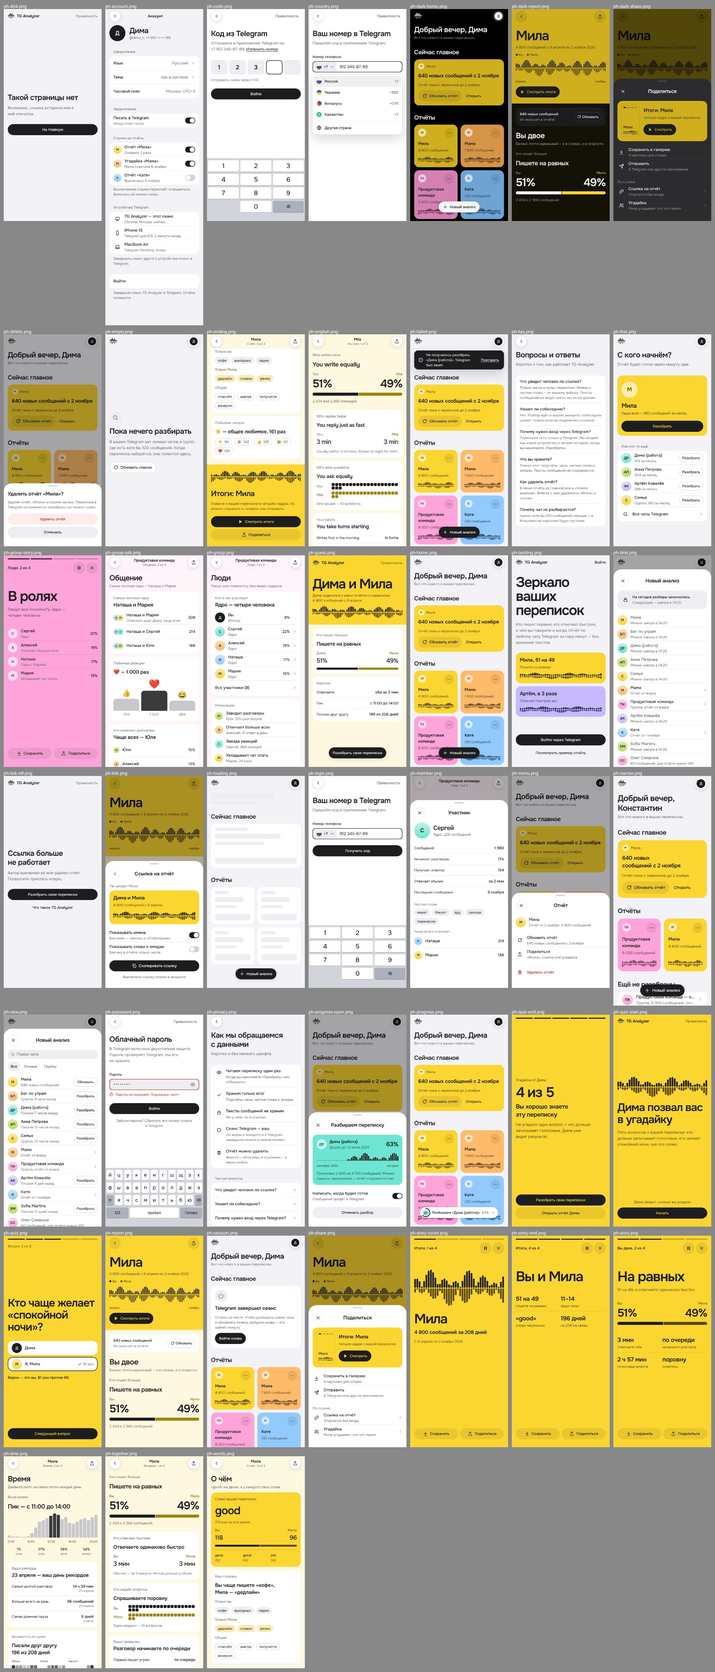
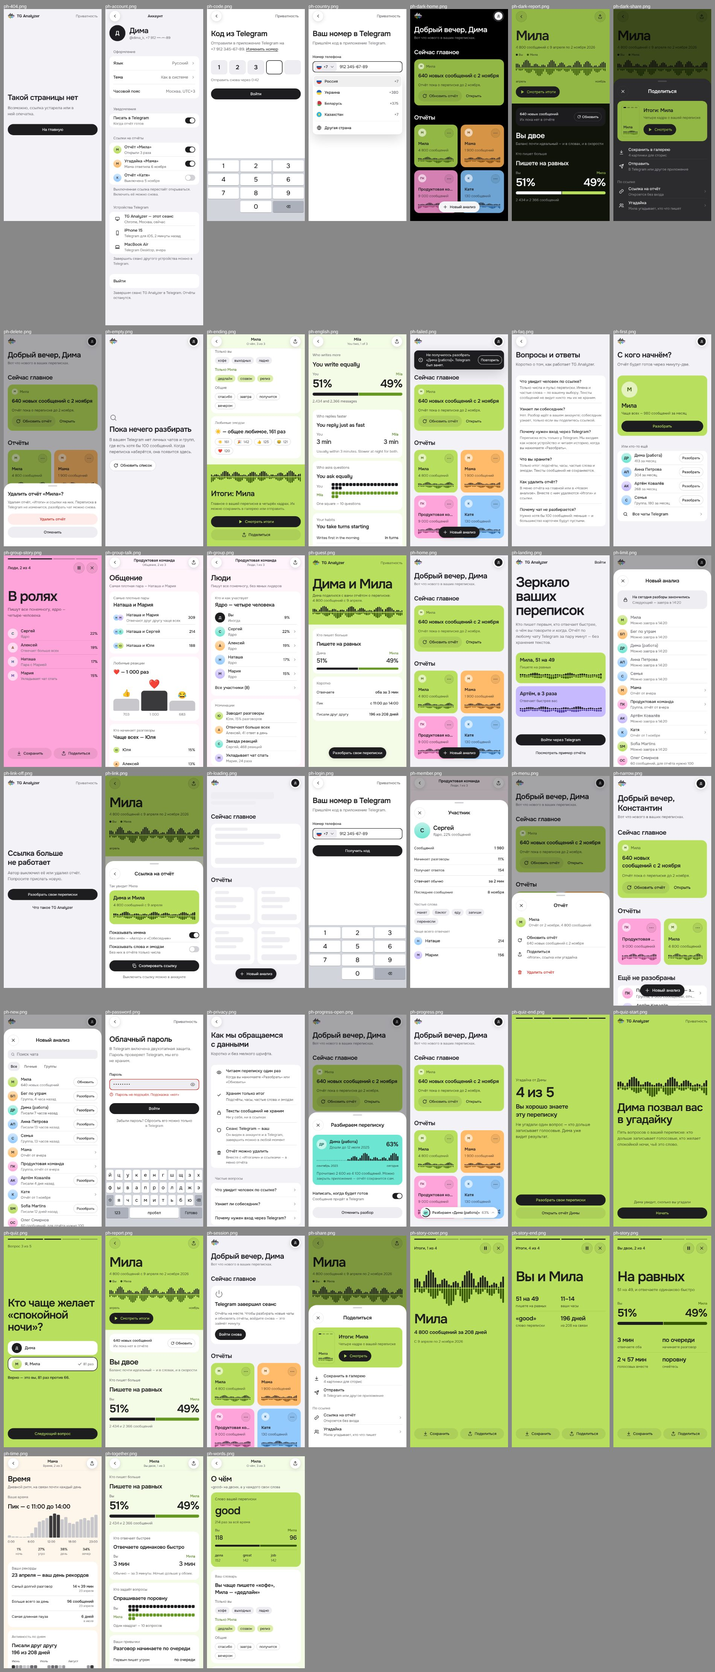
Mockups: Mila in lime, no yellow on screens, fresh-eye fixes
Second person (Mama) on Time and tablet, full-width comparison on the
desktop report, one anatomy for home tiles, FAQ with a data summary,
bare empty-state symbols, one-line names on report cards.

Claude-Session: https://claude.ai/code/session_0138LxsFKP5n8SxjtSAnZS23

diff --git a/docs/design/portrait-v3/generator/systemboards.py b/docs/design/portrait-v3/generator/systemboards.py
@@ -61,7 +61,7 @@ def S_tokens():
               f'<div class="row-f gap-4">{btn("Вторичная", "secondary", "md")}<span class="spec">кольцо 1 px, --border-strong</span></div>'
               f'<div class="row-f gap-4"><span class="field focus" style="width:200px"><span>Фокус поля</span></span><span class="spec">2 px, чернила</span></div>'
               f'<div class="row-f gap-6"><span class="menu" style="position:static;min-width:120px;padding:var(--space-3)">меню, лист</span><span class="spec">--shadow-overlay</span>'
-              f'<span class="fab-round">{ic("plus")}</span><span class="spec">--shadow-float</span></div></div>')
+              f'{ibtn("back", "Назад", "lg")}<span class="spec">--shadow-float: круг шапки, капсула, «Новый анализ»</span></div></div>')
     motion = group([row('', 'Нажатие — 90 мс', 'масштаб 0.97, без кривой', ''), row('', 'Смена состояния — 150 мс', 'кривая входа: быстрый старт, мягкий конец', ''),
                     row('', 'Лист, окно, капсула → лист — 400 мс', 'пружина на входе, уход M3 exit за 150 мс', '')])
     body = f'''<main class="page" style="padding:var(--space-12)">
@@ -81,7 +81,7 @@ def S_tokens():
   <div class="grid-2" style="gap:var(--space-6)">{blk('Линии и тени', lines_, 'Одна толщина линии — 1 px. Кольцо выбора и фокуса — 2 px. Тени — два уровня и только у плавающего; плитки плоские.')}
   {blk('Движение', motion, 'Анимируются только transform и opacity. При reduced motion — короче и без сдвига, но не ноль.')}</div>
   <div class="grid-2" style="gap:var(--space-6)">{blk('Ширины экрана', bps)}
-  {blk('Знак', f'<div class="row-f gap-8" style="align-items:center">{logo(32, word=True)}<span data-hue="yellow" class="row-f">{logo(32, word=True)}</span><span class="tile poster" data-hue="teal" style="flex-direction:row;padding:var(--space-3)">{logo(28, word=True)}</span>{logo(48, tile=True)}</div>', 'Знак — зеркальный пульс продукта: сверху «вы» чернилами, снизу семь цветов людей, с которыми вы переписываетесь. Единственное место, где цвет означает людей вообще, а не одного человека. Надпись — Onest 600. Плитка — только у иконки приложения. На ПК строка знака — это «Главная».')}</div>
+  {blk('Знак', f'<div class="row-f gap-8" style="align-items:flex-start">' + ''.join(f'<div class="stack gap-2 start" style="max-width:150px"><span style="min-height:56px;display:flex;align-items:center;white-space:nowrap">{x}</span><span class="spec">{c}</span></div>' for x, c in [(logo(32, word=True), 'Панель и шапка'), ('<span class="tile poster" data-hue="teal" style="flex-direction:row;padding:var(--space-3)">' + logo(28, word=True) + '</span>', 'На цвете человека — те же цвета'), ('<span data-theme="dark" style="background:var(--bg);color:var(--text);padding:var(--space-3);border-radius:var(--radius-sm);display:flex">' + logo(28, word=True) + '</span>', 'Тёмная тема'), (logo(48, tile=True), 'Иконка приложения')]) + '</div>', 'Знак — зеркальный пульс продукта: сверху «вы» чернилами, снизу семь цветов людей, с которыми вы переписываетесь. Единственное место, где цвет означает людей вообще, а не одного человека. Надпись — Onest 600. Плитка — только у иконки приложения. На ПК строка знака — это «Главная».')}</div>
 </main>'''
     return page('Система — токены', body, pc=True, h=4110)
 
@@ -90,7 +90,7 @@ def S_components():
     states = ''.join(f'<div class="stack gap-2 start">{btn("Разобрать", "primary", "md", state=s)}<span class="spec">{n}</span></div>' for s, n in [('', 'обычная'), ('is-hover', 'наведение'), ('is-press', 'нажатие'), ('is-focus', 'фокус'), ('is-disabled', 'неактивна')])
     states += '<div class="stack gap-2 start"><button class="btn btn-primary md"><span class="spin"></span>Разбираем…</button><span class="spec">загрузка</span></div>'
     kinds = ''.join(f'<div class="stack gap-2 start">{btn(l, k, "md")}<span class="spec">{n}</span></div>' for k, l, n in [('primary', 'Новый анализ', 'главная'), ('secondary', 'Разобрать', 'вторичная'), ('tinted', 'Все чаты', 'тихая'), ('plain', 'Отменить', 'текстовая'), ('danger', 'Удалить', 'опасная')])
-    poster_btns = f'<div class="tile poster" data-hue="yellow" style="flex-direction:row;gap:var(--space-2);align-items:center">{btn("Смотреть итоги", "poster", "md", "play")}{btn("Обновить отчёт", "poster-2", "md", "refresh")}{ibtn("back", "Назад", "on-poster")}<span class="spec muted">на постере</span></div>'
+    poster_btns = f'<div class="tile poster" data-hue="green" style="flex-direction:row;gap:var(--space-2);align-items:center">{btn("Смотреть итоги", "poster", "md", "play")}{btn("Обновить отчёт", "poster-2", "md", "refresh")}{ibtn("back", "Назад", "on-poster")}<span class="spec muted">на постере</span></div>'
     fields = f'''<div class="grid-2" style="gap:var(--space-4)">
   <div class="stack gap-2"><span class="label">Номер телефона</span>{phone_field(number='<span class="ph">912 345-67-89</span>', state='')}<span class="hint">пусто; код страны — по стране входа</span></div>
   <div class="stack gap-2"><span class="label">Номер телефона</span>{phone_field()}<span class="hint">фокус</span></div>
@@ -98,7 +98,7 @@ def S_components():
   <div class="otp" style="max-width:360px"><span>1</span><span>2</span><span>3</span><span class="focus"></span><span></span></div>'''
     controls = f'''<div class="stack gap-4"><div style="max-width:420px">{search('Поиск чата')}</div>
   <div class="row-f gap-6" style="flex-wrap:wrap">{filters(['Все', 'Личные', 'Группы'], 0, 'Чаты')}
-  {switch(True, 'Вкл')}{switch(False, 'Выкл')}{chips(['кофе'])}<span data-hue="yellow">{chips(['дедлайн'], 'them')}</span>{chips(['спасибо'], 'shared')}{ibtn('share', 'Поделиться')}{ibtn('x', 'Закрыть')}</div>
+  {switch(True, 'Вкл')}{switch(False, 'Выкл')}{chips(['кофе'])}<span data-hue="green">{chips(['дедлайн'], 'them')}</span>{chips(['спасибо'], 'shared')}{ibtn('share', 'Поделиться')}{ibtn('x', 'Закрыть')}</div>
   <div class="row-f gap-3">{''.join(flag(c, 24) for c, _, _ in COUNTRIES)}{flag('gb', 24)}<span class="spec">флаги кодов страны рисуем сами: Windows вместо эмодзи-флага пишет «RU». Язык — по-прежнему «RU» с глобусом</span></div></div>'''
     rows = group([row(av('dima'), 'Дима (работа)', 'Писали 7 часов назад', btn('Разобрать', 'secondary', 'sm')), row(av('mila'), 'Мила', 'Отчёт от 2 ноября, 640 новых', btn('Обновить', 'secondary', 'sm')),
                   row(av('oleg'), 'Олег Смирнов', '38 сообщений, для отчёта нужно 100', '', 'few'),
@@ -109,7 +109,7 @@ def S_components():
   <a class="sb-row person">{av('mila', 32)}<span class="grow stack"><span>Мила</span><span class="m new">640 новых сообщений</span></span></a>
   <a class="sb-row person">{av('katya', 32)}<span class="grow stack"><span>Катя</span><span class="m">130 сообщений</span></span></a>
   {live_card('dima', 63)}</div>'''
-    anatomy = f'''<div class="grid-3" style="gap:var(--space-4);align-items:start" data-hue="yellow">
+    anatomy = f'''<div class="grid-3" style="gap:var(--space-4);align-items:start" data-hue="green">
   {tile('Кто пишет больше', 'Пишете на равных', cmp('Вы', 'Мила', '51%', '49%', 51) + '<p class="note">2 434 и 2 366 сообщений</p>')}
   <div class="stack gap-2"><p class="t-small"><b>1. Вопрос</b> называет метрику — тихая строка, не надзаголовок.</p><p class="t-small"><b>2. Ответ</b> — одна фраза. Есть у каждой карточки; фраза главы не повторяет её слово в слово.</p><p class="t-small"><b>3. Сравнение</b> — две цифры и одна полоска 8 px; вы — чернила слева, человек — его метка справа.</p><p class="t-small"><b>4. Первая находка главы</b> стоит без карточки, крупно; мелкие факты — строками с линиями.</p></div>
   <section class="tile poster"><p class="q">Слово вашей переписки</p><p class="t-figure">good</p><p class="t-small muted">Плитка цвета постера — не больше одной на главу.</p></section></div>
@@ -117,7 +117,7 @@ def S_components():
   <div style="max-width:220px">{mini_poster('mila', '4 800 сообщений', 1, 160)}</div>
   <div class="stack gap-2"><p class="t-small"><b>Карточка отчёта</b> — маленький постер: аватар, имя, объём, пульс. Действия всегда на виду — «⋯» открывает «Обновить, Поделиться, Удалить». Долгое нажатие — только ускоритель.</p>
   <p class="t-small"><b>Идущий разбор</b> свёрнут в капсулу внизу (телефон) или карточку в панели (ПК). Нажатие открывает подробности.</p></div>
-  <div style="position:relative;height:72px;background:var(--bg);border-radius:var(--radius-lg)"><div class="dock" style="bottom:8px;left:8px;right:8px"><a class="live">{ring(63, av('dima', 32), 40)}<span class="grow stack"><span class="t-small-strong trunc">Разбираем «Дима (работа)»</span><span class="t-small muted">63%, ещё около минуты</span></span></a><span class="fab-round">{ic('plus')}</span></div></div></div>'''
+  <div style="position:relative;height:80px;background:var(--bg);border-radius:var(--radius-lg)"><div class="dock" style="bottom:12px;left:12px;right:12px;transform:none;max-width:none"><a class="live grow">{ring(63, av('dima', 32), 40)}<span class="grow stack"><span class="t-small-strong trunc">Разбираем «Дима (работа)»</span><span class="t-small muted">63%, ещё около минуты</span></span></a></div></div></div>'''
     overlays = f'''<div class="grid-3" style="gap:var(--space-4);align-items:start">
   <div style="position:relative;height:72px"><div class="toast" role="status" style="left:0;right:0;top:0">{ic('check')}<span class="grow">Отчёт «Мила» обновлён</span><button class="btn">Открыть</button></div></div>
   <div style="position:relative;height:170px"><div class="menu" style="left:0;top:0"><button class="mi on">{ic('refresh')}Обновить отчёт</button><button class="mi">{ic('share')}Поделиться</button><hr><button class="mi danger">{ic('trash')}Удалить отчёт</button></div></div>

diff --git a/docs/design/portrait-v3/generator/desktop.py b/docs/design/portrait-v3/generator/desktop.py
@@ -17,11 +17,13 @@ def sec(title, inner, extra=''):
 
 
 def quiz_tile():
-    dots = ''.join(f'<i style="width:20px;height:20px;border-radius:50%;background:{"var(--you)" if k < 4 else "var(--surface-2)"}"></i>' for k in range(5))
-    return f'''<a href="#" class="tile">
-  <span class="ev-label t-small muted">{av('mama', 24)}Мама ответила на угадайку</span>
-  <h3 class="a">Угадала 4 из 5</h3><span class="row-f gap-2" aria-hidden="true">{dots}</span>
-  <span class="row-f between t-small muted mt-auto">Открыть отчёт{ic('chev', 'chev')}</span></a>'''
+    """Same anatomy as the lead tile: label, answer, body, actions at the bottom."""
+    dots = ''.join(f'<i style="width:24px;height:24px;border-radius:50%;background:{"var(--you)" if k < 4 else "var(--surface-2)"}"></i>' for k in range(5))
+    return f'''<article class="tile">
+  <a href="#" class="ev-label t-small muted">{av('mama', 24)}Мама ответила на угадайку</a>
+  <h3 class="a">Угадала 4 из 5</h3><span class="row-f gap-2" role="img" aria-label="4 верных ответа из 5">{dots}</span>
+  <p class="t-small muted">Ошиблась в одном: кто дольше записывает голосовые.</p>
+  <div class="row-f gap-2 mt-auto">{btn('Открыть отчёт', 'secondary', '', tag='a')}</div></article>'''
 
 
 def month_tile():
@@ -105,7 +107,7 @@ CH = ['Вы двое', 'Время', 'О чём']
 
 def D_report(theme=None):
     body = f'''<div class="cards" style="padding:var(--space-6) var(--page-gutter)">{stale()}{chapter_head('Вы двое', LEDE['together'])}{HERO_SHARE}{cols2(T_SPEED + T_HABITS, T_QUESTIONS + T_VOICE)}</div>'''
-    return shell(sidebar('mila'), poster_pc() + body, title='Отчёт — Вы двое', hue='yellow', room=True, theme=theme)
+    return shell(sidebar('mila'), poster_pc() + body, title='Отчёт — Вы двое', hue='green', room=True, theme=theme)
 
 
 def D_time():
@@ -113,7 +115,8 @@ def D_time():
     body = f'''<div class="cards" style="flex:1;min-height:0;overflow:hidden;padding:var(--space-6) var(--page-gutter)">{chapter_head('Время', LEDE['time'])}
   {T_HOURS}{records_pc()}{heat_tile}
   <div style="height:var(--space-6)"></div>{chapter_head('О чём', LEDE['words'])}<div class="grid-2">{WORD}{VOCAB}</div></div>'''
-    return shell(sidebar('mila'), report_bar('Мила', 'Время, 2 из 3') + body, title='Отчёт — Время', hue='yellow', room=True)
+    body = body.replace('Мила', 'Мама')  # a second person: the same chapter in her colour
+    return shell(sidebar('mama'), report_bar('Мама', 'Время, 2 из 3') + body, title='Отчёт — Время', hue='orange', room=True)
 
 
 def records_pc():
@@ -132,7 +135,7 @@ def ending_pc():
 def D_words():
     body = f'''<div class="cards" style="flex:1;min-height:0;justify-content:flex-end;overflow:hidden;padding:0 var(--page-gutter) var(--space-10)">{chapter_head('О чём', LEDE['words'])}
   <div class="grid-2">{WORD}{VOCAB}</div>{EMOJI}{ending_pc()}</div>'''
-    return shell(sidebar('mila'), report_bar('Мила', 'О чём, 3 из 3') + body, title='Отчёт — О чём', hue='yellow', room=True)
+    return shell(sidebar('mila'), report_bar('Мила', 'О чём, 3 из 3') + body, title='Отчёт — О чём', hue='green', room=True)
 
 
 def D_group():
@@ -169,7 +172,7 @@ def D_new():
 
 
 def story_cover_card():
-    return f'''<div class="poster stack" data-hue="yellow" style="width:240px;aspect-ratio:9/16;border-radius:var(--radius-lg);padding:var(--space-3) var(--space-4) var(--space-4);flex:none">
+    return f'''<div class="poster stack" data-hue="green" style="width:240px;aspect-ratio:9/16;border-radius:var(--radius-lg);padding:var(--space-3) var(--space-4) var(--space-4);flex:none">
   <div class="story-seg" style="grid-template-columns:repeat(4,1fr)"><i class="on"></i><i></i><i></i><i></i></div>
   <div class="stack grow gap-3" style="justify-content:center">{pulse(24, 28, 1.0)}<div class="stack gap-1"><b class="t-h1">Мила</b><span class="t-small muted">4 800 сообщений за 208 дней</span></div></div>
   {btn('Смотреть итоги', 'poster', 'md block', 'play')}</div>'''
@@ -184,11 +187,11 @@ def D_share():
   {row(lead_ic('link'), 'Ссылка на отчёт', 'Откроется без входа', '', '', True, True)}
   {row(lead_ic('users'), 'Угадайка', 'Мила угадывает, кто что пишет', '', '', True, True)}</div></div></section>'''
     behind = f'<div style="display:flex;height:100%" aria-hidden="true" inert>{sidebar("mila")}<main style="{MAIN}">{poster_pc()}</main></div>'
-    return page('Окно «Поделиться»', behind + '<div class="scrim"></div>' + dlg, pc=True, hue='yellow', room=True)
+    return page('Окно «Поделиться»', behind + '<div class="scrim"></div>' + dlg, pc=True, hue='green', room=True)
 
 
 def D_stories():
-    slide = f'''<div class="poster stack phone-scale" data-hue="yellow" role="dialog" aria-modal="true" aria-label="Итоги, кадр 2 из 4" style="position:absolute;left:50%;top:48px;width:440px;height:782px;margin-left:-220px;border-radius:var(--radius-lg);padding:var(--space-3) var(--space-6) var(--space-6);overflow:hidden">
+    slide = f'''<div class="poster stack phone-scale" data-hue="green" role="dialog" aria-modal="true" aria-label="Итоги, кадр 2 из 4" style="position:absolute;left:50%;top:48px;width:440px;height:782px;margin-left:-220px;border-radius:var(--radius-lg);padding:var(--space-3) var(--space-6) var(--space-6);overflow:hidden">
   <div class="story-seg" style="grid-template-columns:repeat(4,1fr)"><i class="on"></i><i class="on"></i><i></i><i></i></div>
   <div class="row-f between" style="margin-top:var(--space-3)"><span class="t-ui">Вы двое, 2 из 4</span>{ibtn('pause', 'Пауза', 'on-poster')}</div>
   {STORY_TOGETHER}{STORY_ACTIONS.replace('"btn btn-poster-2 lg', '"btn btn-poster-2 md')}</div>'''
@@ -263,7 +266,7 @@ def D_guest():
   <div style="grid-column:1/3">{tile('Активность по дням', 'Писали друг другу 196 из 208 дней', months_heat(MONTHS[2:], 6))}</div>
   <section class="tile" style="justify-content:space-between"><div class="stack gap-2"><h3 class="a">А как у вас?</h3><p class="note">Разберите любой свой чат Telegram — отчёт будет готов через минуту-две.</p></div>{btn('Разобрать свои переписки', 'primary', 'md block', tag='a')}</section>
   </div>'''
-    return page('Гость — отчёт по ссылке', poster + tiles, pc=True, hue='yellow', room=True)
+    return page('Гость — отчёт по ссылке', poster + tiles, pc=True, hue='green', room=True)
 
 
 # ─── tablet: the phone shell, one centred column up to 720 ─────────────────
@@ -280,8 +283,9 @@ def T_home():
 
 
 def T_report():
-    body = f'''{poster_ph()}<div class="cards column" style="padding:var(--space-6) var(--page-gutter)">{stale()}{chapter_head('Вы двое', LEDE['together'])}{HERO_SHARE}<div class="grid-2">{T_SPEED}{T_QUESTIONS}</div>{T_HABITS}</div>'''
-    return page('Планшет — отчёт', body, w=820, h=1180, hue='yellow', room=True).replace('class="app ph', 'class="app ph tab', 1)
+    cards = f'''{chapter_head('Вы двое', LEDE['together'])}{HERO_SHARE}<div class="grid-2">{T_SPEED}{T_QUESTIONS}</div>{T_HABITS}'''.replace('Мила', 'Мама').replace('2 434 и 2 366', '970 и 930')
+    body = f'''{poster_ph('Мама', '1 900 сообщений с 9 апреля по 8 ноября 2026', ('Вы', 'Мама'))}<div class="cards column" style="padding:var(--space-6) var(--page-gutter)">{cards}</div>'''
+    return page('Планшет — отчёт', body, w=820, h=1180, hue='orange', room=True).replace('class="app ph', 'class="app ph tab', 1)
 
 
 SCREENS = [

diff --git a/docs/design/portrait-v3/generator/system.py b/docs/design/portrait-v3/generator/system.py
@@ -14,7 +14,7 @@ targets, sheets, bar material), Radix Themes (space 4…80), Primer (layers), Ma
 # Yellow sits one step higher (poster .88): at .85 the eye reads yellow as mustard. —
 # every person is equally loud; each keeps its own hue angle and as much chroma as sRGB allows.
 HUES = {
-    'yellow': dict(poster='#FBD530', tint='#FCEBAE', them='#9E8406', them_ink='#7C6702', on_them='#594900', room='#FEF8E1', poster_d='#CFAF1D'),
+    'yellow': dict(poster='#FBD530', tint='#FCEBAE', them='#A68003', them_ink='#826401', on_them='#5D4703', room='#FEF8E1', poster_d='#E9B60B', room_d='#14110C'),
     'orange': dict(poster='#FFBB69', tint='#FEDFB8', them='#C66B01', them_ink='#9F5104', on_them='#6F3C02', room='#FEF6EB', poster_d='#D69546'),
     'violet': dict(poster='#C6B9FE', tint='#E7DFFF', them='#846CEF', them_ink='#634AD6', on_them='#45339E', room='#F8F6FF', poster_d='#A191DF'),
     'green':  dict(poster='#B8DF5E', tint='#DDEEAC', them='#649820', them_ink='#4A7812', on_them='#365502', room='#F4FBE7', poster_d='#93B745'),
@@ -103,7 +103,7 @@ CSS = r"""
 }
 """ + ''.join(
     "[data-hue={n}]{{--poster:{poster};--room-tint:{tint};--them:{them};--them-ink:{them_ink};--on-them:{on_them};--room:{room};--room-glass:{glass};}}\n"
-    "[data-theme=dark] [data-hue={n}],[data-theme=dark][data-hue={n}]{{--poster:{poster_d};--room:{room_d};--room-glass:var(--bar-glass);--room-tint:var(--surface-2);--them:{poster};--them-ink:{poster};}}\n".format(n=n, room_d=_dark_room(h['room']), glass='rgba({},{},{},0.8)'.format(*[int(h['room'][i:i + 2], 16) for i in (1, 3, 5)]), **h)
+    "[data-theme=dark] [data-hue={n}],[data-theme=dark][data-hue={n}]{{--poster:{poster_d};--room:{room_d};--room-glass:var(--bar-glass);--room-tint:var(--surface-2);--them:{poster};--them-ink:{poster};}}\n".format(n=n, room_d=h.get('room_d') or _dark_room(h['room']), glass='rgba({},{},{},0.8)'.format(*[int(h['room'][i:i + 2], 16) for i in (1, 3, 5)]), **{k: v for k, v in h.items() if k != 'room_d'})
     for n, h in HUES.items()) + r"""
 * { box-sizing: border-box; }
 .app { font-family: var(--font-sans); color: var(--text); background: var(--bg); position: relative; overflow: hidden;
@@ -331,7 +331,7 @@ CSS = r"""
 .menu hr { border: 0; height: 1px; background: var(--border); margin: var(--space-1) var(--space-2); }
 .toast { position: absolute; display: flex; align-items: center; gap: var(--space-3); padding: var(--space-2) var(--space-2) var(--space-2) var(--space-4); border-radius: var(--radius-md);
   background: var(--accent); color: var(--on-accent); box-shadow: var(--shadow-overlay); font: var(--text-small); min-height: 48px; }
-.toast .btn { height: var(--control-sm); padding: 0 var(--space-3); background: transparent; color: var(--on-accent); font: var(--text-small-strong); text-decoration: underline; text-underline-offset: 3px; }
+.toast .btn { height: var(--control-sm); padding: 0 var(--space-3); background: transparent; color: var(--on-accent); font: var(--text-small-strong); border-radius: var(--radius-full); box-shadow: inset 0 0 0 1px currentColor; }
 /* fields */
 .label { font: var(--text-small-strong); }
 .hint { font: var(--text-small); color: var(--text-muted); }
@@ -362,10 +362,8 @@ CSS = r"""
 [data-theme=dark] .switch.on::after { background: #1D1D1F; }
 .switch.on::after { left: 18px; }
 .skel { background: var(--surface-2); border-radius: var(--radius-xs); }
-.empty-ic { width: 48px; height: 48px; border-radius: 50%; background: var(--surface-2); display: flex; align-items: center; justify-content: center; color: var(--text-muted); flex: none; }
-.sheet .empty-ic { background: var(--fill-raised); }
-.empty-ic svg { width: 24px; height: 24px; }
-.empty-ic.sm { width: 40px; height: 40px; }
+.empty-ic { display: flex; color: var(--text-muted); flex: none; }  /* bare symbol like iOS unavailable views — no grey disc */
+.empty-ic svg { width: 32px; height: 32px; stroke-width: 1.5; }
 .story-seg { display: grid; gap: var(--space-1); }
 .story-seg i { height: 4px; border-radius: var(--radius-full); background: var(--on-poster-faint); }
 .story-seg i.on { background: var(--on-poster); }
@@ -393,8 +391,6 @@ CSS = r"""
 .account-btn { width: var(--control-lg); height: var(--control-lg); border-radius: 50%; display: inline-flex; align-items: center; justify-content: center; background: var(--surface-raised); box-shadow: inset 0 0 0 1px var(--border), var(--shadow-float); position: relative; }
 .live { min-width: 0; display: flex; align-items: center; gap: var(--space-2); height: var(--control-lg); padding: 0 var(--space-3) 0 var(--space-1); border-radius: var(--radius-full); color: var(--text); }
 .live .chev { width: 16px; height: 16px; color: var(--text-faint); }
-.fab-round { width: var(--control-lg); height: var(--control-lg); border-radius: 50%; background: var(--accent); color: var(--on-accent); box-shadow: var(--shadow-float); display: inline-flex; align-items: center; justify-content: center; flex: none; }
-.fab-round svg { width: 20px; height: 20px; }
 .sb-live { display: flex; align-items: center; gap: var(--space-3); padding: var(--space-3); border-radius: var(--radius-md); background: var(--surface-2); margin: var(--space-2) 0; }
 .sb-live .ring .track { stroke: var(--surface); }
 /* flags: drawn, because Windows shows letters instead of flag emoji */
@@ -440,7 +436,6 @@ CSS = r"""
 .chev-space { width: 16px; flex: none; }
 .row .btn.sm { min-width: 96px; }
 .ev-label { min-height: 24px; display: flex; align-items: center; gap: var(--space-2); }
-.pc .hero { max-width: var(--page-max-narrow); }
 /* a phone-size frame on desktop (stories) keeps the phone type */
 .pc .phone-scale { --text-display: 600 56px/56px var(--font-sans); --text-figure: 600 44px/48px var(--font-sans); --text-h1: 600 30px/36px var(--font-sans);
   --text-h2: 600 24px/32px var(--font-sans); --text-h3: 600 20px/28px var(--font-sans); }
@@ -454,7 +449,7 @@ CSS = r"""
 .nav-ph .icon-btn:not(.on-poster), .icon-btn.lg, .live { background: var(--surface-raised); box-shadow: inset 0 0 0 1px var(--border), var(--shadow-float); }
 .sheet-h .icon-btn, .dialog .icon-btn { background: var(--surface-raised); box-shadow: inset 0 0 0 1px var(--border); }
 .icon-btn.on-poster { box-shadow: inset 0 0 0 1px var(--on-poster-line); }
-.fab, .fab-round { box-shadow: var(--shadow-float); }
+.fab { box-shadow: var(--shadow-float); }
 .pc { --control-xl: 44px; }
 .tab { --page-gutter: 32px; }
 .tab .column { width: 100%; max-width: 720px; margin: 0 auto; }

diff --git a/docs/design/portrait-v3/generator/kit.py b/docs/design/portrait-v3/generator/kit.py
@@ -3,12 +3,12 @@ import re
 from system import CSS, bars
 
 P = {  # people of the demo account: name, initials, colour family
-    'mila': ('Мила', 'М', 'yellow'), 'mama': ('Мама', 'М', 'orange'), 'team': ('Продуктовая команда', 'ПК', 'pink'),
-    'katya': ('Катя', 'К', 'blue'), 'dima': ('Дима (работа)', 'ДР', 'teal'), 'anna': ('Анна Петрова', 'АП', 'green'),
+    'mila': ('Мила', 'М', 'green'), 'mama': ('Мама', 'М', 'orange'), 'team': ('Продуктовая команда', 'ПК', 'pink'),
+    'katya': ('Катя', 'К', 'blue'), 'dima': ('Дима (работа)', 'ДР', 'teal'), 'anna': ('Анна Петрова', 'АП', 'blue'),
     'artyom': ('Артём Ковалёв', 'АК', 'violet'), 'sofia': ('Sofia Martins', 'SM', 'green'), 'oleg': ('Олег Смирнов', 'ОС', 'pink'),
-    'family': ('Семья', 'С', 'yellow'), 'run': ('Бег по утрам', 'БП', 'orange'),
+    'family': ('Семья', 'С', 'blue'), 'run': ('Бег по утрам', 'БП', 'orange'),
     'sergey': ('Сергей', 'С', 'teal'), 'alexey': ('Алексей', 'А', 'orange'), 'natasha': ('Наташа', 'Н', 'blue'),
-    'maria': ('Мария', 'М', 'yellow'), 'yulia': ('Юля', 'Ю', 'green'),
+    'maria': ('Мария', 'М', 'violet'), 'yulia': ('Юля', 'Ю', 'green'),
 }
 
 _I = {
@@ -226,13 +226,13 @@ def mini_poster(key, meta, seed, h=148, period='', more=True, menu=''):
     z = ';z-index:5' if menu else ''
     return (f'<article class="tile poster mini" data-hue="{hue}" style="min-height:{h}px{z}">{menu}'
             f'<div class="top">{av(key, 32)}{m}</div>'
-            f'<a href="#" class="name clamp2">{name}</a>{per}<span class="t-small muted">{meta}</span>'
+            f'<a href="#" class="name trunc" title="{name}">{name}</a>{per}<span class="t-small muted trunc">{meta}</span>'
             f'<span class="mt-auto" style="padding-top:var(--space-3)">{pulse(28, 12, seed)}</span></article>')
 
 
 def thumb(kind, title, n=4, i=0):
     seg_ = '<span class="story-seg" style="grid-template-columns:repeat(4,1fr)">' + ''.join(f'<i class="{"on" if k <= i else ""}"></i>' for k in range(n)) + '</span>'
-    return f'<div class="thumb916" data-hue="yellow">{seg_}<span class="stack gap-1"><small>{kind}</small><b>{title}</b>{pulse(14, 7, 1.0 + i)}</span></div>'
+    return f'<div class="thumb916" data-hue="green">{seg_}<span class="stack gap-1"><small>{kind}</small><b>{title}</b>{pulse(14, 7, 1.0 + i)}</span></div>'
 
 
 def thumbs():

diff --git a/docs/design/portrait-v3/README.md b/docs/design/portrait-v3/README.md
@@ -23,7 +23,7 @@
 
 Сверка источников — `docs/design-system.md` §13.
 
-- **Цвет означает только человека.** Интерфейс и действия монохромны, «вы» — чернила. Семь светлых насыщенных цветов людей: жёлтый, оранжевый, зелёный, бирюзовый, голубой, лавандовый, розовый; семья цвета — как в Telegram (`abs(id) % 7`). Постеры светлые, текст на них чернилами, сам человек — глубоким тоном (≥ 4.5:1).
+- **Цвет означает только человека.** Интерфейс и действия монохромны, «вы» — чернила. Семь светлых насыщенных цветов людей: лайм, оранжевый, бирюзовый, голубой, лавандовый, розовый и жёлтый (только седьмой слот, в макетах его нет); семья цвета — как в Telegram (`abs(id) % 7`). Постеры светлые, текст на них чернилами, сам человек — глубоким тоном (≥ 4.5:1).
 - **Шрифт** — один: Onest, начертания 400/500/600. Межстрочные интервалы на сетке 4.
 - **Знак** — зеркальный пульс продукта: сверху «вы» чернилами, снизу семь цветов людей, с которыми вы переписываетесь (вариант A из `sheets/logo-variants.png`). Единственное место, где цвет означает людей вообще. Надпись — Onest 600. Плитка (чернила, люди в тонах постеров) — только у иконки приложения. На ПК строка знака вверху панели — это «Главная».
 - **Материал** (размытие) — только у панелей, под которые прокручивается контент. Плитки, кнопки и листы плоские.
@@ -71,6 +71,17 @@
 | 21    | Аккаунт                                                    | Язык и тема — строки со значением. Раздела «Данные» нет. Добавлены «Ссылки на отчёты» с переключателями и «Устройства Telegram». На ПК — две колонки                                                                  |
 | 22    | Коды стран, порог сообщений                                | Россия, Украина, Беларусь и Казахстан — первыми, с флагами, страна подставляется сама. Чат меньше 100 сообщений разобрать нельзя. Сделано и в коде, см. ниже                                                          |
 | 23    | Меню отчёта на телефоне                                    | «⋯» на каждой карточке отчёта открывает лист «Обновить, Поделиться, Удалить». Долгое нажатие осталось как ускоритель                                                                                                  |
+
+## Раунд 5: свежий взгляд (09.11)
+
+- **Жёлтого в макетах больше нет** (просьба владельца). Мила — главная героиня демо — теперь лаймовая, как исходный цвет продукта. Семья и Анна — голубые, Мария — лавандовая. Жёлтая семья осталась только седьмым слотом палитры (у Telegram семь семей цвета) и полоской в знаке. Её тоны сдвинуты от оливкового к золотому, тёмный постер — чистое золото, тёмная комната — почти нейтральная.
+- **Второй человек в отчёте:** «Время» (телефон и ПК) и отчёт на планшете показаны на Маме, в оранжевом. Так видно, что экран перекрашивается под человека.
+- **Отчёт на ПК:** главное сравнение «51 / 49» растянуто на всю колонку, как плашка над ним и карточки под ним.
+- **Главная на ПК:** у плиток «Сейчас главное» одинаковое устройство — подпись с аватаром, ответ, содержание, действие внизу. В угадайке добавлена строка, где Мама ошиблась.
+- **FAQ на ПК:** справа — «Коротко о данных» вместо пустой половины экрана.
+- **Пустые состояния** — иконка 32 без серого кружка, как в iOS. Действие в уведомлении — кнопка-пилюля, а не подчёркнутая ссылка.
+- **Карточки отчётов:** имя в одну строку с многоточием, все карточки одной высоты.
+- **Доски системы:** у знака подписаны четыре применения (панель, цвет человека, тёмная тема, иконка); капсула разбора больше не наезжает на текст, круглой «+» рядом с ней нет.
 
 ## Раунд 4: целостность (09.11)
 

diff --git a/docs/ROADMAP.md b/docs/ROADMAP.md
@@ -6,6 +6,12 @@
 
 ## ✅ Сделано
 
+### 2026-11-09 — «Портрет» v3: свежий взгляд, Мила в лайме
+
+- Жёлтого в макетах нет: Мила лаймовая, «Время» и планшет — на Маме в оранжевом; тёмный жёлтый — золото без оливкового.
+- Отчёт на ПК: «51 / 49» во всю колонку; плитки «Сейчас главное» одного устройства; FAQ на ПК со сводкой о данных; пустые состояния без серых кружков; кнопка в уведомлении; имена в карточках отчётов в одну строку.
+- Доски системы: подписи знака, капсула разбора без наложения.
+
 ### 2026-11-09 — «Портрет» v3: проход на целостность, жёлтый вместо кораллового, 13 новых экранов
 
 - **Коралловый убран** (просьба владельца) — вместо него «солнечный» жёлтый, постер на светлоте 0.88.
